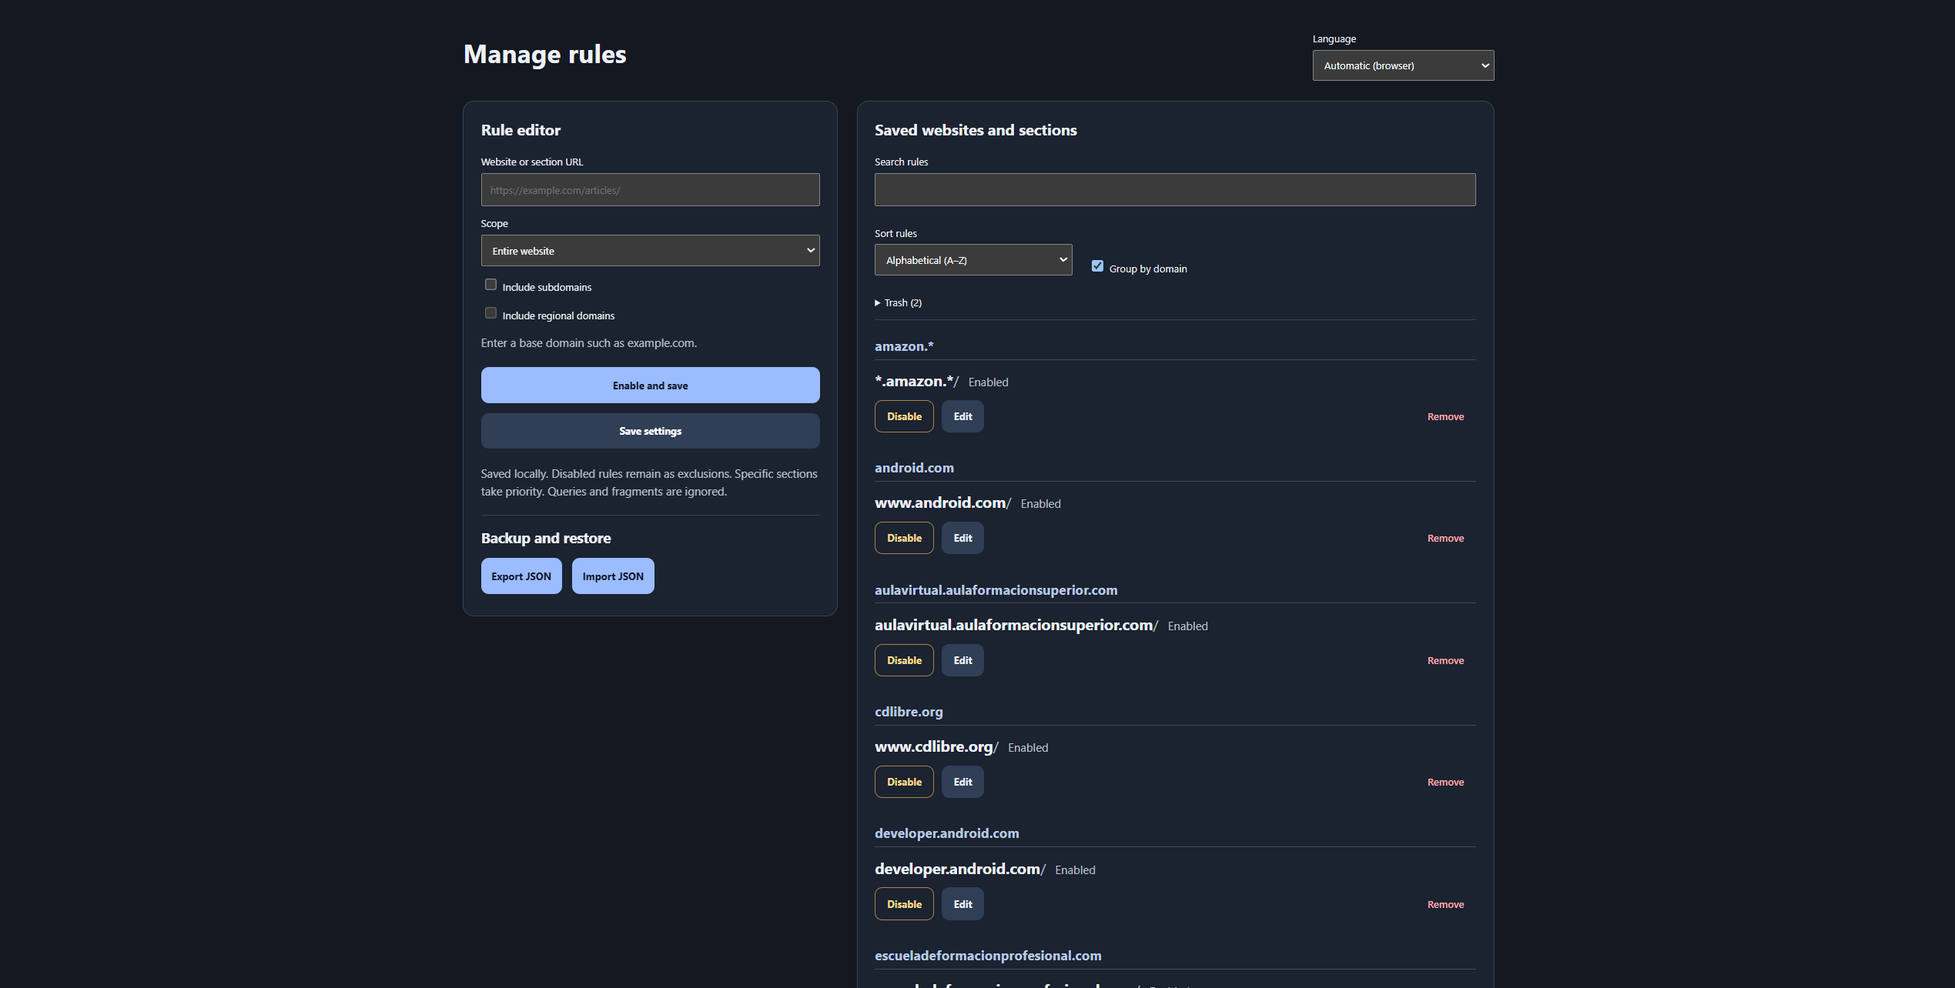
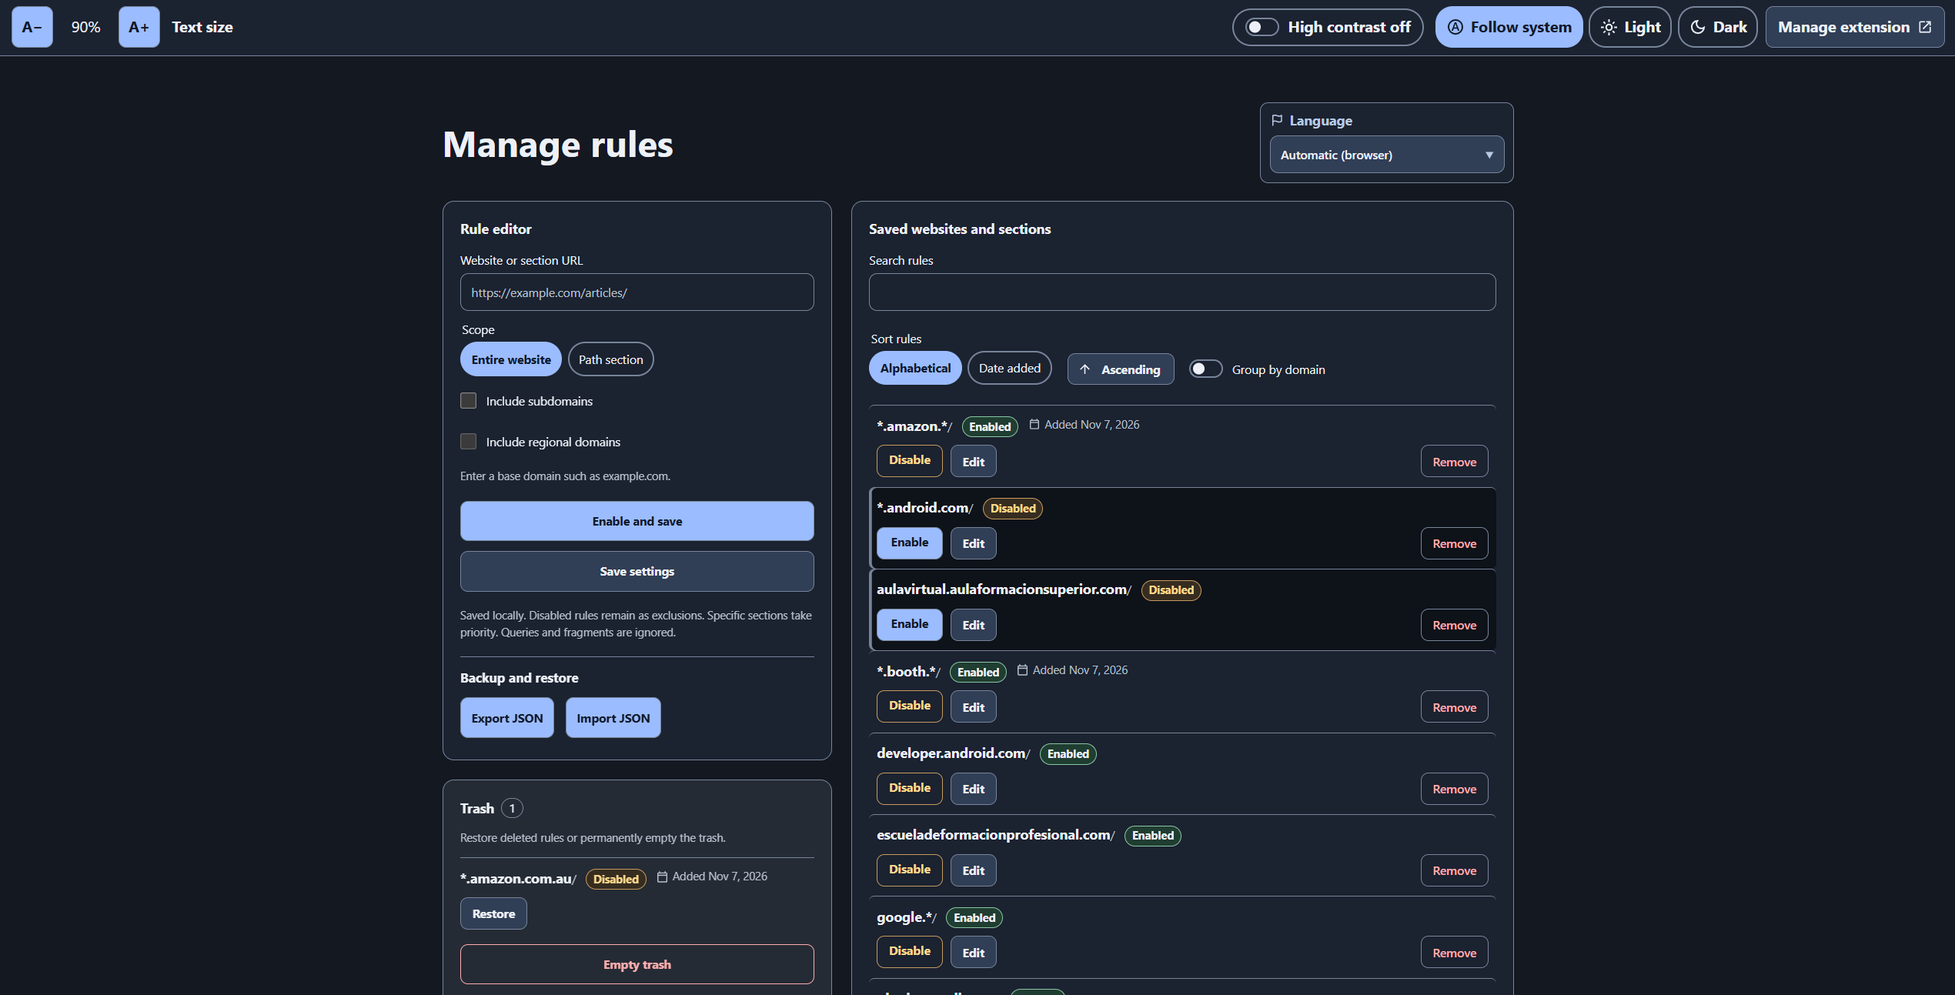
Refresh screenshots and document installation in English and Spanish

diff --git a/README.md b/README.md
@@ -1,6 +1,19 @@
 # Native Dark Mode for Chromium
 
+[Read in Spanish](README.es.md)
+
 Use Chromium's built-in dark mode on the websites and sections you choose. Save a rule once and the extension applies it when you return.
+
+## Install the extension
+
+You only need a desktop Chromium-based browser. Brave has been tested hands-on. The browser loads the extension directly from the downloaded folder. You can install it without Node.js, npm, Python, or a build step.
+
+1. Download the project as a ZIP. On GitHub, choose **Code → Download ZIP**. Extract the ZIP to a folder you can keep.
+2. In your browser's address bar, open `brave://extensions` (Brave), `chrome://extensions` (Chrome or Chromium), or `edge://extensions` (Edge).
+3. Turn on **Developer mode**, click **Load unpacked**, and select the **`extension`** folder inside the extracted project. This is the folder that contains `manifest.json`.
+4. Open **Native Dark Mode** from the browser's extensions menu. You can pin it to the toolbar.
+
+To update, replace the files in the loaded folder with the new version and click **Reload** on the extension's card. Refresh any page you want to test again.
 
 ## Motivation
 
@@ -12,22 +25,11 @@ This project started with a practical goal. Use the browser's own darkening engi
 
 ### Extension popup
 
-![Extension popup showing an Amazon rule with subdomains and regional domains selected](docs/screenshots/popup.png)
+![Extension popup showing an Amazon regional rule, text size controls, and quick access to the rule manager](docs/screenshots/popup.png)
 
 ### Rule manager
 
-![Rule manager showing saved websites grouped by domain, with search, sorting, trash, and JSON backup controls](docs/screenshots/rule-manager.png)
-
-## Install in a Chromium-based browser
-
-The extension uses Manifest V3 and Chromium's native darkening command. It is designed for desktop browsers that expose both the [extension debugger API](https://developer.chrome.com/docs/extensions/reference/api/debugger) and [`Emulation.setAutoDarkModeOverride`](https://chromedevtools.github.io/devtools-protocol/tot/Emulation/#method-setAutoDarkModeOverride). Brave is the browser used for hands-on testing. Chrome, Edge, and other Chromium builds still need end-to-end verification.
-
-1. Download or clone this repository. If you downloaded a ZIP, extract it first.
-2. Open your browser's **Extensions** page and enable **Developer mode**. Use `chrome://extensions` in Chrome or Chromium, `edge://extensions` in Edge, or `brave://extensions` in Brave.
-3. Click **Load unpacked** and select the [extension](extension/) folder. It contains `manifest.json`.
-4. Open the **Extensions** menu and select **Native Dark Mode**. You can pin it to the toolbar for quick access.
-
-The browser loads the extension directly from the folder. Installing and using it requires no build step, Node.js, npm, or Python. To update your local copy, update the files and click **Reload** on the extension card. Refresh open pages if you want to retry them with the updated extension.
+![Rule manager showing the editor, search and sorting controls, rule status and dates, JSON backups, and trash](docs/screenshots/rule-manager.png)
 
 ## Use the extension
 
@@ -35,6 +37,8 @@ The browser loads the extension directly from the folder. Installing and using i
 2. Select **Entire website** or **Path section**. The URL field lets you adjust the scope before saving.
 3. Click **Enable and save**. The browser applies its native darkening to the current page, and the extension remembers the rule for future visits.
 4. Use **Disable and save** to keep a rule as an exclusion, or open **Manage rules** to edit, search, or remove saved rules.
+
+**Save settings** saves the selected scope without changing an existing rule's enabled state. A new rule saved this way starts disabled.
 
 | Option | What it covers |
 | --- | --- |
@@ -45,7 +49,9 @@ The browser loads the extension directly from the folder. Installing and using i
 
 More specific paths take priority. At the same path, a rule for a single domain takes priority over a regional pattern. Regional patterns match names across suffixes. Use a single-domain rule when you want to limit the scope to one domain. When a page inherits an enabled rule, the popup can offer **Exclude this subdomain** or **Exclude this hostname** to save an exception for the current hostname and inherited path.
 
-**Manage rules** opens the saved rule list in a full tab with editing, sorting, grouping, and search. **Remove** moves a rule to **Trash**, in a card below the rule editor. You can restore a rule with its settings or choose **Empty trash** and confirm permanent deletion. If a saved rule already occupies the same scope, the deleted copy stays in Trash when you try to restore it.
+**Manage rules** opens a full tab where you can search and sort by name or date added, in either direction. **Group by domain** shows collapsible groups with an **Expand all / Collapse all** button. Dates are shown for rules with a saved creation date.
+
+**Remove** moves a rule to **Trash**, below the editor. You can restore a rule with its settings or choose **Empty trash** and confirm permanent deletion. If a saved rule already occupies the same scope, the deleted copy stays in Trash when you try to restore it.
 
 The manager also offers **Export JSON** and **Import JSON**. The import dialog previews new and matching rules. By default it adds only new rules. You can also update matching rules or replace the entire list. The replacement option shows how many current rules will be deleted. The JSON covers the main rule list. Trash and display preferences stay in local storage.
 
@@ -57,7 +63,7 @@ Use the text size controls at the top left of the popup or rule manager to adjus
 
 ## How it works
 
-The [Manifest V3 extension](extension/manifest.json) has a popup, a full-page rule manager, and a [background service worker](extension/background.js).
+The [Manifest V3 extension](extension/manifest.json) has a popup, a full-page rule manager, and a [background service worker](extension/background.js). It requires the [extension debugger API](https://developer.chrome.com/docs/extensions/reference/api/debugger) and Chromium's experimental [native darkening command](https://chromedevtools.github.io/devtools-protocol/tot/Emulation/#method-setAutoDarkModeOverride).
 
 1. The worker checks the current URL against the rules saved in `chrome.storage.local` when tabs load or navigate. The rule matcher handles hosts, paths, subdomains, exclusions, and regional patterns. Regional matching uses a bundled snapshot of the ICANN section of the [Public Suffix List](https://publicsuffix.org/list/).
 2. On a matching enabled tab, the [controller](extension/controller.js) attaches through `chrome.debugger` and sends `Emulation.setAutoDarkModeOverride` with `enabled: true`. Chromium renders the dark theme. The extension uses the browser's image handling too.
@@ -67,7 +73,7 @@ The extension uses `debugger` to send the native emulation command, HTTP and HTT
 
 ## Optional launcher for the debugging banner
 
-Your browser may show a debugging banner while the extension is attached. Closing the banner or opening DevTools can disconnect the session. The optional launchers pass `--silent-debugger-extension-api`. When the browser honors this flag, it suppresses banners for **all** debugger extensions in that session.
+You can use the extension as soon as it is loaded. If the browser shows a debugging banner and you want to hide it, use the optional launcher below. It passes `--silent-debugger-extension-api`, which suppresses banners for **all** debugger extensions in that session when the browser supports it. Closing the banner or opening DevTools can disconnect the session.
 
 Run the installer for your system from the project folder. The three installers are at the top level of `scripts/`, and their helpers stay in `scripts/internal/`. Each installer looks for Brave, Google Chrome, Chromium, Microsoft Edge, Vivaldi, and Opera in the usual locations for that platform. It creates one set of shortcuts per browser it finds, using the name **Browser Name - Native Dark Mode**.
 
@@ -90,6 +96,7 @@ The installer was tested on Windows 11, where banner suppression was confirmed i
 ## Current limits
 
 - The extension uses an experimental Chromium DevTools Protocol command. Rendering can vary by site and browser version.
+- Chrome, Edge, and other Chromium builds still need end-to-end verification.
 - Rules apply to HTTP and HTTPS websites. Internal browser pages are outside the rule scope.
 - Chromium controls image treatment. Per-site image preservation is deferred. See [IMAGE-RESEARCH.md](IMAGE-RESEARCH.md) for the experimental launch-time option and its limits.
 

diff --git a/README.es.md b/README.es.md
@@ -1,0 +1,95 @@
+# Modo oscuro nativo para Chromium
+
+[Read in English](README.md)
+
+Usa el modo oscuro integrado en Chromium en las webs y secciones que elijas. Guarda una regla una vez y la extensión la aplicará cuando vuelvas.
+
+## Instalar la extensión
+
+Solo necesitas un navegador de escritorio basado en Chromium. La extensión se ha probado en Brave. El navegador carga la extensión directamente desde la carpeta descargada, sin necesidad de instalar Node.js, npm o Python.
+
+1. **Descarga y descomprime el proyecto.** En GitHub, pulsa **Code → Download ZIP**. Extrae el ZIP en una carpeta que puedas conservar.
+2. **Abre la página de extensiones.** Escribe `brave://extensions` en Brave, `chrome://extensions` en Chrome o Chromium, o `edge://extensions` en Edge.
+3. **Carga la carpeta correcta.** Activa **Modo de desarrollador**, pulsa **Cargar descomprimida** (**Load unpacked**) y selecciona la carpeta **`extension`** que hay dentro del proyecto. Es la carpeta que contiene `manifest.json`.
+4. **Abre la extensión.** Busca **Modo oscuro nativo** en el menú de extensiones. Puedes fijarla en la barra del navegador.
+
+Para actualizarla, reemplaza los archivos de la carpeta cargada con la nueva versión y pulsa **Recargar** en la ficha de la extensión. Recarga la web si quieres volver a probarla.
+
+## Motivación
+
+Muchas webs carecen de un tema oscuro. En otras hay que activarlo a mano o volver a elegirlo en cada visita. Las extensiones de modo oscuro pueden ayudar, pero su resultado varía de una web a otra. A veces aparecen textos difíciles de leer, contrastes pobres o colores inesperados.
+
+Este proyecto usa el motor de oscurecimiento del propio navegador y recuerda dónde quieres aplicarlo. Puedes activarlo para una web entera y guardar excepciones para un subdominio o una sección concreta.
+
+## Capturas
+
+### Panel de la extensión
+
+![Panel con una regla regional de Amazon, controles de tamaño del texto y acceso al gestor de reglas](docs/screenshots/popup.png)
+
+### Gestor de reglas
+
+![Gestor con editor, búsqueda, orden, estado y fecha de añadido, copias JSON y papelera](docs/screenshots/rule-manager.png)
+
+## Usar la extensión
+
+1. Abre una web HTTP o HTTPS y pulsa el icono de la extensión.
+2. Elige **Web completa** o **Sección por ruta**. Puedes ajustar la URL antes de guardar.
+3. Pulsa **Activar y guardar**. El navegador aplica su modo oscuro nativo y la extensión recuerda la regla.
+4. Pulsa **Desactivar y guardar** para guardar una exclusión, o abre **Gestionar reglas** para editar, buscar o eliminar reglas guardadas.
+
+**Guardar ajustes** guarda el alcance elegido y conserva el estado de la regla si ya existe. Una regla nueva guardada así queda desactivada.
+
+| Opción | Qué cubre |
+| --- | --- |
+| **Web completa** | El nombre de host indicado en el campo de URL. |
+| **Sección por ruta** | Una ruta y sus subrutas. Por ejemplo, `/articulos` incluye `/articulos/guia`. |
+| **Incluir subdominios** | Los subdominios del sitio. Con esta opción, `www.android.com` se trata como `android.com` y puede cubrir `developer.android.com`. |
+| **Incluir dominios regionales** | El mismo nombre bajo sufijos reconocidos. `amazon.es` pasa a `amazon.*` y puede cubrir `amazon.com.au` y `amazon.co.uk`. Activa también los subdominios para obtener `*.amazon.*`. |
+
+Las rutas más específicas tienen prioridad. Para la misma ruta, un dominio concreto tiene prioridad sobre una regla regional. Si la página hereda una regla activa, el panel puede ofrecer **Excluir este subdominio** o **Excluir este nombre de host** para guardar una excepción.
+
+**Gestionar reglas** abre la lista completa en otra pestaña. Puedes buscar y ordenar por nombre o fecha de añadido, en orden ascendente o descendente. **Agrupar por dominio** muestra grupos plegables con el botón **Expandir todos / Contraer todos**. La fecha aparece cuando está guardada en la regla.
+
+**Eliminar** mueve la regla a la **Papelera**, debajo del editor. Puedes recuperarla con sus ajustes o elegir **Vaciar papelera** y confirmar el borrado definitivo. Si ya existe una regla para el mismo alcance, la copia eliminada se queda en la papelera al intentar restaurarla.
+
+Con **Exportar JSON** puedes guardar una copia de las reglas. **Importar JSON** muestra una vista previa y te permite añadir solo las reglas nuevas, añadirlas y actualizar las coincidencias, o reemplazar toda la lista. El reemplazo muestra cuántas reglas se eliminarán. La papelera y las preferencias de apariencia se guardan aparte.
+
+La interfaz sigue el idioma del navegador por defecto. En **Idioma** puedes elegir español, inglés, francés, portugués europeo, italiano, chino simplificado, japonés, coreano o alemán.
+
+Usa **A−** y **A+** en la parte superior para ajustar el texto del 75 % al 200 %. En el panel, abre **Apariencia** para cambiar de tema o activar **Alto contraste**. En el gestor, esos controles están en la barra superior. El tema sigue al sistema por defecto. Las preferencias se comparten entre ambas vistas. El modo oscuro de las webs se controla por separado con las reglas.
+
+## Cómo funciona
+
+La [extensión Manifest V3](extension/manifest.json) tiene un panel, un gestor de reglas y un [servicio en segundo plano](extension/background.js).
+
+1. Cuando una pestaña se carga o cambia de URL, el servicio busca la regla aplicable en `chrome.storage.local`. Para los dominios regionales, usa una copia de la sección ICANN de la [Public Suffix List](https://publicsuffix.org/list/).
+2. Si la regla está activa, el [controlador](extension/controller.js) se conecta a la pestaña con `chrome.debugger` y ejecuta `Emulation.setAutoDarkModeOverride`. Chromium se encarga del renderizado y del tratamiento de las imágenes.
+3. Si la regla deja de aplicarse o se desactiva, el controlador retira el modo oscuro y cierra la conexión. Si cancelas la depuración, la activación automática queda pausada en esa pestaña hasta que pulses **Activar y guardar**.
+
+La extensión usa permisos de depuración para enviar ese comando, acceso a sitios HTTP y HTTPS para evaluar las reglas y almacenamiento para guardarlas en el dispositivo. No hace peticiones a servidores externos.
+
+## Acceso directo opcional para ocultar el aviso de depuración
+
+Puedes usar la extensión en cuanto esté cargada. Si el navegador muestra el aviso de depuración y quieres ocultarlo, ejecuta el instalador de tu sistema desde la carpeta del proyecto.
+
+| Sistema | Instalador | Dónde aparece el acceso |
+| --- | --- | --- |
+| Windows | Haz doble clic en [install-launcher-windows.cmd](scripts/install-launcher-windows.cmd). | Menú Inicio y escritorio. |
+| Linux | Ejecuta `sh scripts/install-launcher-linux.sh`. | Menú de aplicaciones y escritorio, si está configurado. El entorno de escritorio puede pedirte que marques el acceso como de confianza. |
+| macOS | Ejecuta `sh scripts/install-launcher-macos.command`. | Carpeta `~/Applications` y un enlace en el escritorio, si la carpeta existe. |
+
+1. El instalador busca Brave, Chrome, Chromium, Edge, Vivaldi y Opera. La consola muestra qué accesos crea y dónde. Pulsa **Enter** al terminar.
+2. Cierra completamente el navegador y ábrelo desde su nuevo acceso **Nombre del navegador - Native Dark Mode**.
+
+El acceso añade `--silent-debugger-extension-api` al inicio. Si el navegador admite ese parámetro, se ocultan los avisos de todas las extensiones de depuración durante esa sesión. Puedes comprobar que recibió el argumento en la página de versión del navegador, en el campo **Línea de comandos**.
+
+Los instaladores usan herramientas del sistema y muestran mensajes en español o inglés según la configuración regional. Si el navegador está en una ruta personalizada, puedes pasar `--browser "RUTA_ABSOLUTA_AL_EJECUTABLE"`.
+
+El acceso y la supresión del aviso se probaron en **Brave con Windows 11**. Linux y macOS tienen pruebas automatizadas de los archivos generados y siguen pendientes de probarse en esos sistemas. También queda por verificar la supresión del aviso en otros navegadores.
+
+## Límites y desarrollo
+
+- La extensión usa un comando experimental de Chromium. El resultado puede variar según la web y la versión del navegador. Chrome, Edge y otras variantes aún necesitan pruebas de extremo a extremo.
+- Las reglas se aplican a webs HTTP y HTTPS. Chromium decide cómo trata las imágenes. La opción nativa de preservarlas está aplazada y documentada en [IMAGE-RESEARCH.md](IMAGE-RESEARCH.md).
+- Las instrucciones de desarrollo, pruebas y versiones están en [AGENTS.md](AGENTS.md) y en el [README en inglés](README.md#development-and-screenshots).

diff --git a/AGENTS.md b/AGENTS.md
@@ -4,7 +4,9 @@
 
 Native Dark Mode is a Manifest V3 extension for desktop Chromium browsers. It uses Chromium's own rendering engine to darken selected websites and URL sections and remembers those choices across visits. Users can opt in by hostname, path, subdomain, or regional domain and can save explicit exclusions.
 
-Keep the source code, internal identifiers, and project documentation in English. Translate user-facing extension strings into every supported language. Keep installation dependency-free for end users. The browser loads the unpacked `extension/` directory directly, and the optional launcher installers use tools shipped with the operating system.
+Keep the source code, internal identifiers, and developer documentation in English. Translate user-facing extension strings into every supported language. Keep installation dependency-free for end users. The browser loads the unpacked `extension/` directory directly, and the optional launcher installers use tools shipped with the operating system.
+
+Keep the English [README.md](README.md) and Spanish [README.es.md](README.es.md) aligned when changing user-facing workflows. Both use the same screenshots under `docs/screenshots/`. Put basic installation first. The user extracts the ZIP, enables developer mode on the browser's Extensions page, and loads the `extension/` folder containing `manifest.json`. Document the optional debugging-banner launcher separately.
 
 ## Repository map
 
@@ -29,8 +31,9 @@ Keep the source code, internal identifiers, and project documentation in English
 - A longer matching path wins. At the same path, non-regional rules take precedence, followed by more specific host matches and exact rules ahead of subdomain rules. A disabled winning rule is an exclusion. Normalize leading `www.` for ordinary rules when subdomains are enabled. Regional rules match a registered name across recognized suffixes, with `www` treated as an alias. Keep regional matching based on the bundled suffix data.
 - `chrome.storage.local` contains `rules`, `trash`, `ruleListPreferences`, `uiLanguage`, `uiTheme`, `uiTextScale`, and `uiHighContrast`. The controller keeps transient per-tab state in `chrome.storage.session` under `tab:<id>`. Route persistent rule changes through `RuleManager` so concurrent edits, imports, restores, and deletions stay ordered.
 - Removing a rule moves it to the trash. Restoring it preserves its settings and fails safely if the scope already exists. Emptying the trash affects only entries covered by the user's confirmation.
+- Domain grouping is a display feature in the full-page manager. Groups start collapsed and remember their state while the list is rebuilt. The bulk control applies to visible groups. Regional rules and their hostname exceptions can share a group without changing matching precedence. Display creation dates only when they are available.
 - Backups use format `native-dark-mode-rules`, version `1`, and cover the rule list. The import default adds new rules and keeps existing matches. Users can also update matches or replace the list. Full replacement previews permanent deletions and rejects newly discovered removals until the user reviews them. Preserve the existing size and rule limits and validate before writing.
-- Appearance affects the extension UI. Website darkening is controlled separately by rules. The UI follows the system theme by default, supports 75% to 200% text scaling, and offers high contrast. Preserve native radio controls behind the chips, keyboard focus, accessible names and descriptions, and wrapping at large text sizes.
+- Appearance affects the extension UI. Website darkening is controlled separately by rules. The UI follows the system theme by default, supports 75% to 200% text scaling, and offers high contrast. Keep the text size controls steady in both toolbars. The popup puts theme and contrast in the Appearance menu, while the manager exposes them directly. Preserve native controls, keyboard focus, accessible names and descriptions, wrapping at large text sizes, and reduced-motion behavior.
 - The nine extension catalogs are `en`, `es`, `fr`, `pt_PT`, `it`, `zh_CN`, `ja`, `ko`, and `de`. Use `data-i18n` for visible text, `data-i18n-label` for accessible labels, and `t()` for dynamic strings. Keep interpolation variables consistent. The launchers have separate English and Spanish messages.
 - The launchers pass `--silent-debugger-extension-api` to the target browser. The flag applies to all debugger extensions in that session when supported. Keep the installers native to each platform, use `--output-directory` for temporary test artifacts, and preserve browser discovery, location reporting, and the interactive Enter prompt.
 - Chromium currently decides how images are darkened. Per-site native image controls are deferred. See [IMAGE-RESEARCH.md](IMAGE-RESEARCH.md) for the experimental launch-time option and its limits.
